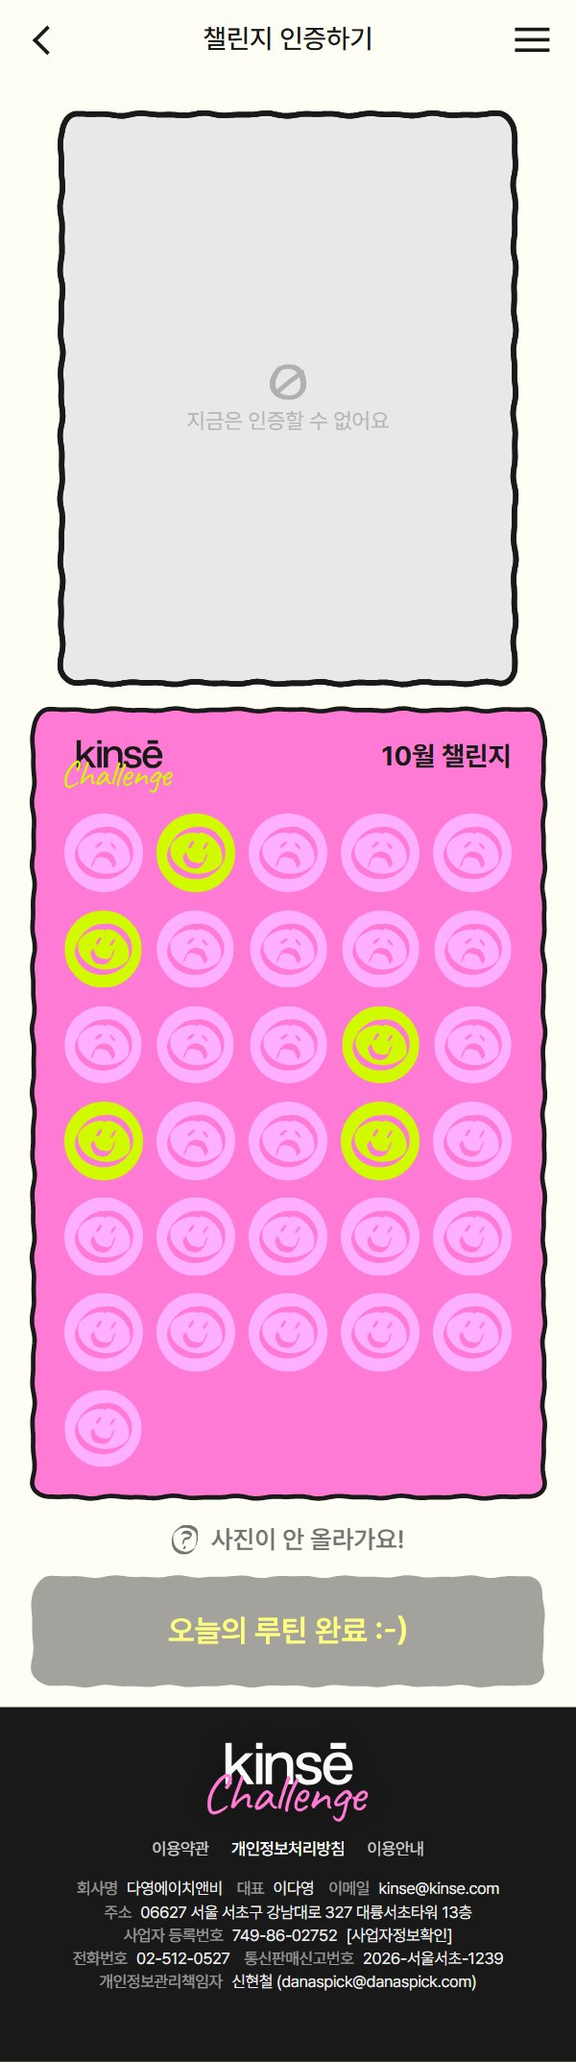
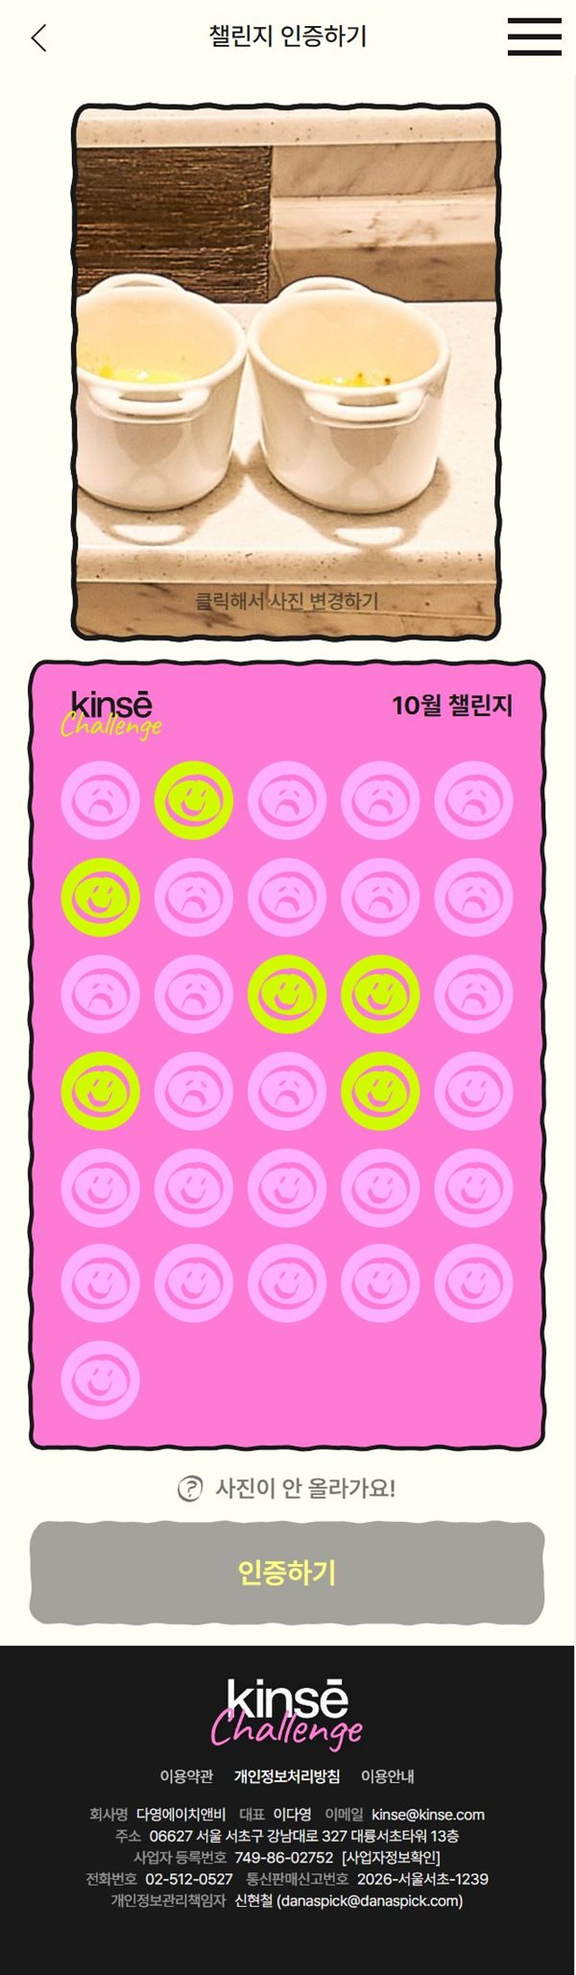
인증 화면 당일 사진 변경 · 결과는 검수기간 끝난 뒤 한 번에 발표 반영
- 인증 화면: 오늘 올린 뒤에도 사진 칸 열림(그날에만 변경), 버튼 항상 "인증하기", "오늘의 루틴 완료" 버튼 주석
- "결과 대기중이에요"는 검수기간에만
- 결과 · 반려 표시는 검수기간이 끝난 다음 날 모든 회원 한 번에, 배지 결과발표는 그때부터
- 내 기록 사진 왼쪽 위 승인 · 반려 도장 설명
- 캡처 3장 다시 촬영 (verify_today, srv/u_verify_2, srv/u_verify_2_stamp)

diff --git a/admin-user-logic.html b/admin-user-logic.html
@@ -62,13 +62,13 @@
     <div class="step"><span class="when">신청기간</span><b>회원 신청</b><p>회원이 신청하고, 관리자는 제품 운송장을 등록해요</p></div>
     <div class="step"><span class="when">진행기간</span><b>하루 1장 인증</b><p>회원이 매일 사진을 올려요. 이상한 사진은 반려해요</p></div>
     <div class="step"><span class="when">진행기간 끝</span><b>횟수 부족 탈락</b><p>기준만큼 못 올린 회원을 한 번에 탈락시켜요</p></div>
-    <div class="step"><span class="when">검수기간</span><b>검수 · 결과 발표</b><p>남은 회원 사진을 확인하고 '최종완료'를 누르면 결과가 나가요</p></div>
+    <div class="step"><span class="when">검수기간</span><b>검수 · 결과 발표</b><p>남은 회원 사진을 확인하고 '최종완료'를 누르면 결과가 정해져요. 발표는 검수기간이 끝난 뒤 한 번에</p></div>
   </div>
 
   <h2>꼭 알아둘 규칙</h2>
   <div class="box">
     <ul>
-      <li><b>인증은 하루 1장</b>이에요. 올린 뒤에는 수정할 수 없고(퍼블에도 수정 화면 없음), 관리자가 반려한 경우에만 그날 다시 올릴 수 있어요. <b>인증 횟수</b>는 반려되지 않은 사진 수예요.</li>
+      <li><b>인증은 하루 1장</b>이에요. 올린 <b>그날(당일)에만</b> 사진을 다시 골라 바꿀 수 있고, 지난 날 사진은 바꿀 수 없어요. <b>인증 횟수</b>는 반려되지 않은 사진 수예요. (반려 표시는 검수기간이 끝난 뒤 회원에게 보여요)</li>
       <li><b>성공 기준</b>은 챌린지마다 따로 정해요. (예: 30일 챌린지에 25번 이상 인증하면 성공)</li>
       <li>관리자는 사진을 <b>하나하나 승인하지 않아요.</b> 문제 있는 사진만 반려하면 되고, 나머지는 '최종완료' 때 자동으로 승인돼요.</li>
       <li>회원의 <b>성공 · 탈락 결과는 관리자가 직접 고를 수 없어요.</b> 아래 두 가지 방법으로만 자동으로 정해져요.
@@ -77,14 +77,14 @@
           <li>검수기간에 심사상태를 <span class="q">최종완료</span>로 바꿀 때</li>
         </ol>
       </li>
-      <li>결과가 정해지는 <b>그 순간 회원 화면에 바로 발표</b>돼요.</li>
+      <li>결과가 정해져도 바로 나가지 않고, <b>검수기간이 끝난 다음 날 모든 회원에게 한 번에 발표</b>돼요. (검수 종료일이 없으면 진행 종료일 다음 날) 그 전까지 회원 화면은 '결과 대기중'이고 반려 표시도 보이지 않아요.</li>
     </ul>
   </div>
 
   <h2>관리자가 하는 일</h2>
   <figure class="dg">
     <div class="scroll">
-    <svg viewBox="0 0 960 324" role="img" aria-label="관리자 운영 흐름: 챌린지 일정 등록, 신청현황 운송장 등록, 인증현황에서 문제 사진만 반려, 진행기간이 끝나면 횟수 부족 일괄 탈락, 검수기간에 최종완료하면 미처리 사진 자동 승인 후 반려 제외 인증 수가 성공 횟수 이상이면 성공 아니면 탈락(반려). 결과가 정해지는 즉시 회원에게 발표.">
+    <svg viewBox="0 0 960 324" role="img" aria-label="관리자 운영 흐름: 챌린지 일정 등록, 신청현황 운송장 등록, 인증현황에서 문제 사진만 반려, 진행기간이 끝나면 횟수 부족 일괄 탈락, 검수기간에 최종완료하면 미처리 사진 자동 승인 후 반려 제외 인증 수가 성공 횟수 이상이면 성공 아니면 탈락(반려). 결과는 검수기간이 끝난 뒤 모든 회원에게 한 번에 발표.">
       <defs><marker id="arrA" viewBox="0 0 10 10" refX="9" refY="5" markerWidth="7" markerHeight="7" orient="auto"><path d="M0,0 L10,5 L0,10 z" fill="currentColor"/></marker></defs>
       <rect class="hd" x="8" y="8" width="176" height="26" rx="6"/><text class="ht" x="96" y="26" text-anchor="middle">준비</text>
       <rect class="hd" x="200" y="8" width="176" height="26" rx="6"/><text class="ht" x="288" y="26" text-anchor="middle">신청기간</text>
@@ -119,7 +119,7 @@
       <line class="ln" x1="672" y1="180" x2="672" y2="278" marker-end="url(#arrA)"/>
       <line class="ln" x1="815" y1="252" x2="815" y2="278" marker-end="url(#arrA)"/>
       <line class="ln" x1="906" y1="252" x2="906" y2="278" marker-end="url(#arrA)"/>
-      <rect class="acb" x="584" y="280" width="368" height="34" rx="10"/><text class="t act" x="768" y="302" text-anchor="middle">결과가 정해지는 즉시 회원 화면에 발표</text>
+      <rect class="acb" x="584" y="280" width="368" height="34" rx="10"/><text class="t act" x="768" y="302" text-anchor="middle">검수기간이 끝나면 모든 회원에게 한 번에 발표</text>
     </svg>
     </div>
     <figcaption>결과가 정해지는 길은 '횟수 부족 일괄 탈락'과 '최종완료' 두 가지뿐이고, 둘 다 진행기간이 끝나야 누를 수 있어요. 최종완료한 회원을 심사중으로 되돌리면 자동 승인이 풀리고 다시 결과 대기가 돼요.</figcaption>
@@ -129,8 +129,8 @@
     <tr><td class="when">준비</td><td><b>챌린지 &gt; 챌린지 일정</b>에서 등록<br>제목, 이미지, 신청기간 · 진행기간 · 검수기간, <b>성공 인증 횟수</b>(1 ~ 진행 일수, 입력칸 옆에 "최대 N회" 표시 · 넘으면 저장 안 됨), 실패한 회원에게 추천할 루틴</td></tr>
     <tr><td class="when">신청기간</td><td><b>챌린지 &gt; 신청현황</b>에서 신청자 확인<br>엑셀로 내려받아 운송장 번호를 채워 다시 올리거나, 목록에서 바로 입력</td></tr>
     <tr><td class="when">진행기간</td><td><b>챌린지 &gt; 인증현황</b>에서 사진 확인<br>문제 있는 사진만 체크해서 <span class="q">반려</span> (잘못 반려했으면 <span class="q">반려 취소</span>)<br>여러 회원의 사진을 한꺼번에 체크해서 처리할 수도 있어요</td></tr>
-    <tr><td class="when">진행기간 끝</td><td><span class="q">횟수 부족 일괄 탈락</span> 버튼 클릭<br>사진을 기준보다 적게 올린 회원(한 번도 안 올린 회원 포함)이 한 번에 탈락돼요 → 회원에게 바로 실패 결과</td></tr>
-    <tr><td class="when">검수기간</td><td>남은 회원 사진을 확인하고 필요하면 반려<br>확인이 끝난 회원을 체크해 심사상태를 <span class="q">최종완료</span>로 변경 → 결과가 자동으로 정해지고 회원에게 발표</td></tr>
+    <tr><td class="when">진행기간 끝</td><td><span class="q">횟수 부족 일괄 탈락</span> 버튼 클릭<br>사진을 기준보다 적게 올린 회원(한 번도 안 올린 회원 포함)이 한 번에 탈락돼요 → 회원에게는 검수기간이 끝난 뒤 실패 결과</td></tr>
+    <tr><td class="when">검수기간</td><td>남은 회원 사진을 확인하고 필요하면 반려<br>확인이 끝난 회원을 체크해 심사상태를 <span class="q">최종완료</span>로 변경 → 결과가 자동으로 정해짐 (회원 발표는 검수기간이 끝난 다음 날 모든 회원 한 번에)</td></tr>
   </table>
   <p class="tip">※ '최종완료'와 '횟수 부족 일괄 탈락'은 진행기간이 끝나야 누를 수 있어요. 최종완료된 회원의 사진은 반려할 수 없어요(심사중으로 되돌린 뒤 처리).</p>
 
@@ -147,15 +147,15 @@
   <h2 class="pink">회원에게 보이는 화면</h2>
   <figure class="dg">
     <div class="scroll">
-    <svg viewBox="0 0 960 320" role="img" aria-label="회원 화면 흐름: 신청 전(상세에 카드 · 버튼 없음), 챌린지 신청하기, 신청 완료 D-n, 사진 인증하기(올리면 오늘의 루틴 완료, 반려되면 다시 인증), 결과 대기중, 관리자 결과 확정 후 결과 화면과 내 기록 보기, 검수기간이 끝나면 종료. 신청하지 않은 회원은 신청 기간 종료 안내 후 종료. 아래에 마이페이지 배지.">
+    <svg viewBox="0 0 960 320" role="img" aria-label="회원 화면 흐름: 신청 전(상세에 카드 · 버튼 없음), 챌린지 신청하기, 신청 완료 D-n, 사진 인증하기(하루 1장, 그날은 사진 변경 가능), 검수기간에는 결과 대기중, 검수기간이 끝나면 모든 회원 결과 화면과 내 기록 보기(결과가 없으면 종료). 신청하지 않은 회원은 신청 기간 종료 안내 후 종료. 아래에 마이페이지 배지.">
       <defs><marker id="arrU" viewBox="0 0 10 10" refX="9" refY="5" markerWidth="7" markerHeight="7" orient="auto"><path d="M0,0 L10,5 L0,10 z" fill="currentColor"/></marker></defs>
       <rect class="hd" x="8" y="8" width="124" height="26" rx="6"/><text class="ht" x="70" y="26" text-anchor="middle">신청 전</text>
       <rect class="hd" x="144" y="8" width="124" height="26" rx="6"/><text class="ht" x="206" y="26" text-anchor="middle">신청기간</text>
       <rect class="hd" x="280" y="8" width="124" height="26" rx="6"/><text class="ht" x="342" y="26" text-anchor="middle">신청 후 · 시작 전</text>
       <rect class="hd" x="416" y="8" width="124" height="26" rx="6"/><text class="ht" x="478" y="26" text-anchor="middle">진행기간</text>
-      <rect class="hd" x="552" y="8" width="124" height="26" rx="6"/><text class="ht" x="614" y="26" text-anchor="middle">진행 끝 · 결과 전</text>
-      <rect class="hd" x="688" y="8" width="124" height="26" rx="6"/><text class="ht" x="750" y="26" text-anchor="middle">결과 발표</text>
-      <rect class="hd" x="824" y="8" width="124" height="26" rx="6"/><text class="ht" x="886" y="26" text-anchor="middle">검수기간 끝</text>
+      <rect class="hd" x="552" y="8" width="124" height="26" rx="6"/><text class="ht" x="614" y="26" text-anchor="middle">검수기간</text>
+      <rect class="hd" x="688" y="8" width="124" height="26" rx="6"/><text class="ht" x="750" y="26" text-anchor="middle">검수기간 끝 · 발표</text>
+      <rect class="hd" x="824" y="8" width="124" height="26" rx="6"/><text class="ht" x="886" y="26" text-anchor="middle">결과 없음</text>
 
       <rect class="bx" x="8" y="60" width="124" height="56" rx="10"/><text class="t" x="70" y="84" text-anchor="middle">신청 전</text><text class="s" x="70" y="103" text-anchor="middle">카드 · 버튼 없음</text>
       <rect class="bx" x="144" y="60" width="124" height="56" rx="10"/><text class="t" x="206" y="84" text-anchor="middle">챌린지 신청하기</text><text class="s" x="206" y="103" text-anchor="middle">비로그인: 로그인 후</text>
@@ -171,11 +171,11 @@
       <line class="ln" x1="540" y1="88" x2="551" y2="88" marker-end="url(#arrU)"/>
       <line class="ln" x1="676" y1="88" x2="687" y2="88" marker-end="url(#arrU)"/>
       <line class="ln" x1="812" y1="88" x2="823" y2="88" marker-end="url(#arrU)"/>
-      <text class="s act" x="682" y="50" text-anchor="middle">관리자 결과 확정</text>
+      <text class="s act" x="682" y="50" text-anchor="middle">모든 회원 한 번에</text>
 
       <line class="ln" x1="462" y1="116" x2="462" y2="152" marker-end="url(#arrU)"/><text class="s" x="456" y="138" text-anchor="end">올림</text>
-      <rect class="okb" x="416" y="154" width="124" height="44" rx="10"/><text class="t okt" x="478" y="172" text-anchor="middle" style="font-size:12px">오늘의 루틴 완료</text><text class="s" x="478" y="190" text-anchor="middle">다음 날 다시 인증</text>
-      <line class="ln dash" x1="494" y1="152" x2="494" y2="118" marker-end="url(#arrU)"/><text class="s" x="500" y="138">반려되면</text>
+      <rect class="okb" x="416" y="154" width="124" height="44" rx="10"/><text class="t okt" x="478" y="172" text-anchor="middle" style="font-size:12px">그날은 사진 변경</text><text class="s" x="478" y="190" text-anchor="middle">다음 날 다시 인증</text>
+      <line class="ln dash" x1="494" y1="152" x2="494" y2="118" marker-end="url(#arrU)"/><text class="s" x="500" y="138">다시 고르면</text>
 
       <line class="ln" x1="750" y1="116" x2="750" y2="152" marker-end="url(#arrU)"/>
       <rect class="bx" x="688" y="154" width="124" height="44" rx="10"/><text class="t" x="750" y="172" text-anchor="middle">내 기록 보기</text><text class="s" x="750" y="190" text-anchor="middle">도장판</text>
@@ -192,19 +192,19 @@
       <rect x="844" y="284" width="84" height="24" rx="12" fill="#e9edf2"/><text class="t" x="886" y="300" text-anchor="middle" fill="#55606e" style="font-size:12px">종료</text>
     </svg>
     </div>
-    <figcaption>진행기간에는 하루 1장 — 올리면 바로 '오늘의 루틴 완료', 반려되면 그날 다시 올릴 수 있어요. 관리자 쪽에서 결과가 정해지는 순간 인증 화면 대신 결과 화면(성공 · 실패)이 열려요.</figcaption>
+    <figcaption>진행기간에는 하루 1장 — 올린 날에는 사진을 다시 골라 바꿀 수 있고, 버튼은 항상 '인증하기'예요('오늘의 루틴 완료' 버튼은 없앰). 검수기간에는 관리자가 결과를 정해도 '결과 대기중이에요'이고, 검수기간이 끝난 다음 날 모든 회원에게 결과 화면(성공 · 실패)이 한 번에 열려요.</figcaption>
   </figure>
   <table>
     <tr><th>언제</th><th>회원이 보는 것</th></tr>
     <tr><td class="when">신청기간 전</td><td>상세에 카드 · 버튼 없음 (목록 카드는 눌리지 않음)</td></tr>
     <tr><td class="when">신청기간</td><td>"챌린지 신청하기" 버튼 (로그인 안 했으면 "로그인 후 신청하기")<br>이름 · 전화번호 · 주소 입력, 동의 3개 체크 후 신청</td></tr>
     <tr><td class="when">신청 후 ~ 시작 전</td><td>"신청 완료" · "곧 시작돼요 D-n"</td></tr>
-    <tr><td class="when">진행기간</td><td>"사진 등록하고 인증하기" → 하루 1장 업로드<br>올리면 바로 <b>"오늘의 루틴 완료 :-)"</b>, 반려되면 그날 다시 올릴 수 있어요<br>도장판에 인증한 날 · 놓친 날 · 반려된 날이 표시돼요</td></tr>
-    <tr><td class="when">진행기간 끝 ~ 결과 전</td><td>"결과 대기중이에요" (사진은 더 올릴 수 없어요)</td></tr>
-    <tr><td class="when">결과 발표 후</td><td>성공 → "챌린지 성공했어요!" + 리워드 안내<br>탈락 → "완주하지 못했어요" + 추천 루틴<br>두 화면 모두 "내 기록 보기"로 도장판 확인</td></tr>
-    <tr><td class="when">검수기간 끝</td><td>"종료된 챌린지 · 다음에 다시 돌아올게요"</td></tr>
+    <tr><td class="when">진행기간</td><td>"사진 등록하고 인증하기" → 하루 1장 업로드<br>오늘 올린 뒤 다시 들어오면 오늘 사진이 보이고, <b>그날에만</b> 다시 골라 바꿀 수 있어요 (버튼은 항상 "인증하기")<br>도장판에 인증한 날 · 놓친 날 · 오늘이 표시돼요</td></tr>
+    <tr><td class="when">검수기간</td><td>"결과 대기중이에요" (사진은 더 올릴 수 없어요)<br>관리자가 결과를 정해도 검수기간 동안은 이 화면 그대로</td></tr>
+    <tr><td class="when">검수기간 끝 (결과 발표)</td><td>모든 회원에게 한 번에 — 성공 → "챌린지 성공했어요!" + 리워드 안내<br>탈락 → "완주하지 못했어요" + 추천 루틴<br>두 화면 모두 "내 기록 보기"로 도장판 확인 (사진 왼쪽 위 도장 : 승인 웃는 얼굴 / 반려 · 안 올린 날 우는 얼굴)</td></tr>
+    <tr><td class="when">검수기간 끝 · 결과 없음</td><td>"종료된 챌린지 · 다음에 다시 돌아올게요" (신청 안 한 회원 · 결과가 정해지지 않은 회원)</td></tr>
   </table>
-  <p class="tip">※ 마이페이지 '나의 챌린지'에는 진행중 / 진행예정 / 결과대기중 / 결과발표 / 종료 중 하나가 표시돼요.</p>
+  <p class="tip">※ 마이페이지 '나의 챌린지'에는 진행중 / 진행예정 / 결과대기중(검수기간) / 결과발표(검수기간이 끝나고 결과가 있음) / 종료(결과 없음) 중 하나가 표시돼요.</p>
 
   <p class="tip">아래는 지금 사이트의 실제 회원 화면이에요 (2026-10-19, 테스트 데이터로 캡처 후 데이터 삭제). 사진을 누르면 크게 볼 수 있어요.</p>
 
@@ -220,28 +220,27 @@
   <div class="shots">
     <figure><a href="img/v_applied.jpg" target="_blank"><img src="img/v_applied.jpg" alt="신청 후 시작 전 상세" loading="lazy"></a><figcaption><b>신청 후 · 시작 전</b>"곧 시작돼요 D-8" · 버튼 "신청 완료"</figcaption></figure>
     <figure><a href="img/v_ing.jpg" target="_blank"><img src="img/v_ing.jpg" alt="진행중 오늘 인증 전 상세" loading="lazy"></a><figcaption><b>진행중 · 오늘 인증 전</b>"오늘의 챌린지 시작!" 진행바 5/14 · 버튼 "사진 등록하고 인증하기"</figcaption></figure>
-    <figure><a href="img/verify_ing.jpg" target="_blank"><img src="img/verify_ing.jpg" alt="사진 인증 화면" loading="lazy"></a><figcaption><b>사진 인증</b>사진 칸 + 도장판 (인증한 날 · 놓친 날 · 반려된 날 · 오늘)</figcaption></figure>
+    <figure><a href="img/verify_ing.jpg" target="_blank"><img src="img/verify_ing.jpg" alt="사진 인증 화면" loading="lazy"></a><figcaption><b>사진 인증</b>사진 칸 + 도장판 (인증한 날 · 놓친 날 · 오늘, 반려는 검수기간이 끝난 뒤에만)</figcaption></figure>
     <figure><a href="img/verify_done.jpg" target="_blank"><img src="img/verify_done.jpg" alt="인증 완료" loading="lazy"></a><figcaption><b>인증 완료</b>"사진 인증 완료했어요!" + 오늘 사진 + 도장판</figcaption></figure>
-    <figure><a href="img/verify_today.jpg" target="_blank"><img src="img/verify_today.jpg" alt="오늘 인증 후 인증 화면" loading="lazy"></a><figcaption><b>오늘 올린 뒤 인증 화면</b>사진 칸 "지금은 인증할 수 없어요" · 버튼 "오늘의 루틴 완료 :-)"</figcaption></figure>
+    <figure><a href="img/verify_today.jpg" target="_blank"><img src="img/verify_today.jpg" alt="오늘 인증 후 인증 화면" loading="lazy"></a><figcaption><b>오늘 올린 뒤 인증 화면</b>오늘 사진 + "클릭해서 사진 변경하기" · 버튼 "인증하기" (그날에만 변경, 10/19 저녁 변경)</figcaption></figure>
     <figure><a href="img/v_ing_done.jpg" target="_blank"><img src="img/v_ing_done.jpg" alt="진행중 오늘 인증 완료 상세" loading="lazy"></a><figcaption><b>진행중 · 오늘 인증 완료</b>카드 "오늘의 루틴 완료 :-)" 6/14</figcaption></figure>
     <figure><a href="img/v_missed.jpg" target="_blank"><img src="img/v_missed.jpg" alt="진행중 미신청 상세" loading="lazy"></a><figcaption><b>진행중 · 신청 안 한 회원</b>"신청 기간이 종료됐어요." · 버튼 "지금은 신청할 수 없어요"</figcaption></figure>
   </div>
 
-  <h3 class="shot-h">진행기간 끝 ~ 결과 · 종료</h3>
+  <h3 class="shot-h">검수기간 ~ 결과 · 종료</h3>
   <div class="shots">
-    <figure><a href="img/v_review.jpg" target="_blank"><img src="img/v_review.jpg" alt="결과 대기 상세" loading="lazy"></a><figcaption><b>결과 전 · 챌린지 상세</b>"참여 완료한 챌린지 · 인증 확인중이에요."</figcaption></figure>
-    <figure><a href="img/verify_review.jpg" target="_blank"><img src="img/verify_review.jpg" alt="결과 대기 인증 화면" loading="lazy"></a><figcaption><b>결과 전 · 인증 화면</b>사진 칸 닫힘 · 버튼 "결과 대기중이에요"</figcaption></figure>
+    <figure><a href="img/v_review.jpg" target="_blank"><img src="img/v_review.jpg" alt="결과 대기 상세" loading="lazy"></a><figcaption><b>검수기간 · 챌린지 상세</b>"참여 완료한 챌린지 · 인증 확인중이에요."</figcaption></figure>
+    <figure><a href="img/verify_review.jpg" target="_blank"><img src="img/verify_review.jpg" alt="결과 대기 인증 화면" loading="lazy"></a><figcaption><b>검수기간 · 인증 화면</b>사진 칸 닫힘 · 버튼 "결과 대기중이에요" (검수기간에만, 결과가 정해져도 그대로)</figcaption></figure>
     <figure><a href="img/result_ok.jpg" target="_blank"><img src="img/result_ok.jpg" alt="성공 결과" loading="lazy"></a><figcaption><b>결과 · 성공</b>"챌린지 성공했어요!" · "내 기록 보기"</figcaption></figure>
     <figure><a href="img/result_fail.jpg" target="_blank"><img src="img/result_fail.jpg" alt="실패 결과" loading="lazy"></a><figcaption><b>결과 · 실패</b>"완주하지 못했어요" + 추천 루틴 · "내 기록 보기"</figcaption></figure>
-    <figure><a href="img/record.jpg" target="_blank"><img src="img/record.jpg" alt="내 기록" loading="lazy"></a><figcaption><b>내 기록</b>도장을 누르면 그날 사진 · 날짜</figcaption></figure>
+    <figure><a href="img/record.jpg" target="_blank"><img src="img/record.jpg" alt="내 기록" loading="lazy"></a><figcaption><b>내 기록</b>도장을 누르면 그날 사진 · 날짜, 사진 왼쪽 위 작은 도장 = 승인(웃는 얼굴) · 반려(우는 얼굴)</figcaption></figure>
     <figure><a href="img/v_end.jpg" target="_blank"><img src="img/v_end.jpg" alt="종료 챌린지 상세" loading="lazy"></a><figcaption><b>검수기간 끝 · 종료</b>"종료된 챌린지" · 버튼 "다음에 다시 돌아올게요 :-)"</figcaption></figure>
-    <figure><a href="img/my_challenge.jpg" target="_blank"><img src="img/my_challenge.jpg" alt="나의 챌린지 배지" loading="lazy"></a><figcaption><b>나의 챌린지</b>배지 진행예정 · 진행중 · 결과발표(성공 · 실패) · 결과대기중 (검수기간이 끝나면 종료)</figcaption></figure>
+    <figure><a href="img/my_challenge.jpg" target="_blank"><img src="img/my_challenge.jpg" alt="나의 챌린지 배지" loading="lazy"></a><figcaption><b>나의 챌린지</b>배지 진행예정 · 진행중 · 결과대기중(검수기간) · 결과발표(검수기간이 끝나고 결과 있음) · 종료(결과 없음). 캡처는 10/19 오전 규칙 화면</figcaption></figure>
   </div>
 
   <h2>정해야 할 것</h2>
   <div class="box">
     <ol>
-      <li>결과가 이미 발표된 회원도 검수기간 동안 메인 카드와 상세 버튼에 "인증 확인중이에요"가 보여요. (퍼블에 '결과 발표' 문구가 없음)</li>
       <li>결과 화면이 '완주'라는 표현을 쓰는데, 성공 기준이 'N번 이상'이라 뜻이 안 맞아요. 회원 화면에 성공 기준 안내도 없어요.</li>
       <li>신청할 때 전화번호 인증은 아직 연결되지 않았어요. (인증 서비스 정보 대기)</li>
     </ol>

diff --git a/user-publ-compare.html b/user-publ-compare.html
@@ -48,7 +48,7 @@
     <div class="box">
       <h2><span class="tag warn">확인 필요</span> 결정할 것 5가지</h2>
       <ol>
-        <li>결과 발표 뒤에도 카드 · 상세 버튼이 "인증 확인중이에요" (퍼블에 '결과 발표' 상태 없음)</li>
+        <li>(10/19 저녁 해결) 결과는 검수기간이 끝난 뒤 발표라 검수기간 카드 · 상세 버튼 "인증 확인중이에요"와 어긋나지 않음</li>
         <li>결과 화면 '완주' 문구 그대로 / 성공 기준(N회 이상) 안내 없음</li>
         <li>신청서 전화번호 인증 미연동</li>
         <li>메인 카드 : 엑셀은 신청한 챌린지 0개면 바로 "챌린지 참여하기" ↔ 지금은 신청기간 챌린지를 먼저 보여 줌</li>
@@ -58,10 +58,10 @@
     <div class="box">
       <h2>관리자 변경을 사용자에 적용</h2>
       <ul>
-        <li>결과 = 관리자 '챌린지 결과' 그대로, 정해지면 바로 발표</li>
+        <li>결과 = 관리자 '챌린지 결과' 그대로, 검수기간이 끝난 다음 날 모든 회원에게 한 번에 발표 (10/19 저녁 변경)</li>
         <li>오늘 인증 = 승인이 아니라 <b>사진 업로드</b> 기준</li>
-        <li>→ 카드 · 인증 화면 버튼 모두 올리면 바로 "오늘의 루틴 완료 :-)"</li>
-        <li>→ 인증 화면 "결과 대기중이에요"는 진행기간이 끝나고 발표 전에만</li>
+        <li>→ 카드는 올리면 바로 "오늘의 루틴 완료 :-)", 인증 화면 버튼은 항상 "인증하기"(그날 사진 변경 가능, 10/19 저녁)</li>
+        <li>→ 인증 화면 "결과 대기중이에요"는 검수기간에만</li>
       </ul>
     </div>
   </div>
@@ -84,10 +84,10 @@
       <tr><td class="k"><span class="tag same">같음</span></td><td class="item">신청기간 전</td><td class="p">카드 마크업에는 없음<br>엑셀 : 시작 전 + 미신청 → upcoming, 상태문구 "진행 예정"</td><td>카드 없음 · 하단 버튼 없음</td></tr>
       <tr><td class="k"><span class="tag same">같음</span></td><td class="item">시작 전 + 신청함</td><td class="p">"곧 시작돼요 :-) D-n"</td><td>같음</td></tr>
       <tr><td class="k"><span class="tag chg">변경</span></td><td class="item">진행중 + 오늘 인증 전</td><td class="p">"오늘의 수분 충전 시작!"</td><td>"오늘의 챌린지 시작!" ('수분' 빼고 공통 문구)</td></tr>
-      <tr><td class="k"><span class="tag chg">변경</span></td><td class="item">진행중 + 오늘 인증 완료</td><td class="p">"오늘의 수분 루틴 완료 :-)"</td><td>"오늘의 루틴 완료 :-)" — 사진 올리면 바로 (반려되면 다시 '시작!')</td></tr>
+      <tr><td class="k"><span class="tag chg">변경</span></td><td class="item">진행중 + 오늘 인증 완료</td><td class="p">"오늘의 수분 루틴 완료 :-)"</td><td>"오늘의 루틴 완료 :-)" — 사진 올리면 바로</td></tr>
       <tr><td class="k"><span class="tag chg">변경</span></td><td class="item">진행중 + 오늘 인증 확인중</td><td class="p">"인증 확인중이에요."</td><td>안 씀 (승인 작업이 없어짐)</td></tr>
       <tr><td class="k"><span class="tag same">같음</span></td><td class="item">신청기간 지나서 미신청</td><td class="p">"신청 기간이 종료됐어요."</td><td>같음</td></tr>
-      <tr><td class="k"><span class="tag warn">확인 필요</span></td><td class="item">마지막 날 지나고 결과 확인중</td><td class="p">"인증 확인중이에요."</td><td>같음 (검수기간 + 신청함)<span class="note">결과가 발표된 회원도 검수기간 동안 이 문구</span></td></tr>
+      <tr><td class="k"><span class="tag warn">확인 필요</span></td><td class="item">마지막 날 지나고 결과 확인중</td><td class="p">"인증 확인중이에요."</td><td>같음 (검수기간 + 신청함)<span class="note">결과 발표는 검수기간이 끝난 뒤라 문제 없음 (10/19 저녁)</span></td></tr>
       <tr><td class="k"><span class="tag same">같음</span></td><td class="item">완전 종료</td><td class="p">회색 "다음에 다시 돌아올게요 :-)"</td><td>같음 (메인에는 안 나옴)</td></tr>
       <tr><td class="k"><span class="tag add">추가</span></td><td class="item">메인 카드 고르는 순서</td><td class="p">없음</td><td>① 신청한 챌린지 중 끝나지 않은 것 → ② 없으면 "챌린지 참여하기"</td></tr>
     </table>
@@ -116,7 +116,7 @@
       <tr><td class="k"><span class="tag same">같음</span></td><td class="item">버튼 · 신청 가능</td><td class="p" colspan="2">"챌린지 신청하기"</td></tr>
       <tr><td class="k"><span class="tag same">같음</span></td><td class="item">버튼 · 신청함 + 진행 전</td><td class="p" colspan="2">"신청 완료"</td></tr>
       <tr><td class="k"><span class="tag same">같음</span></td><td class="item">버튼 · 진행중 + 신청함</td><td class="p" colspan="2">"사진 등록하고 인증하기" (+ 오늘 인증 전이면 "잘 하고 있어요 !" 안내)</td></tr>
-      <tr><td class="k"><span class="tag warn">확인 필요</span></td><td class="item">버튼 · 검수기간 + 신청함</td><td class="p">"인증 확인중이에요"</td><td>같음<span class="note">결과 발표 뒤에도 이 문구</span></td></tr>
+      <tr><td class="k"><span class="tag warn">확인 필요</span></td><td class="item">버튼 · 검수기간 + 신청함</td><td class="p">"인증 확인중이에요"</td><td>같음<span class="note">결과 발표는 검수기간이 끝난 뒤 (10/19 저녁)</span></td></tr>
       <tr><td class="k"><span class="tag same">같음</span></td><td class="item">버튼 · 그 외 미신청</td><td class="p" colspan="2">"지금은 신청할 수 없어요"</td></tr>
       <tr><td class="k"><span class="tag same">같음</span></td><td class="item">버튼 · 종료</td><td class="p" colspan="2">"다음에 다시 돌아올게요 :-)"</td></tr>
     </table>
@@ -138,12 +138,12 @@
     <table>
       <tr><th>구분</th><th>항목</th><th>퍼블</th><th>지금</th></tr>
       <tr><td class="k"><span class="tag same">같음</span></td><td class="item">사진 칸 "인증 사진 업로드"</td><td class="p" colspan="2">진행기간 + 오늘 사진 없음(또는 반려)</td></tr>
-      <tr><td class="k"><span class="tag add">추가</span></td><td class="item">사진 칸 "지금은 인증할 수 없어요"</td><td class="p">인증 확인중일 때</td><td>오늘 이미 올렸을 때 + 진행기간이 끝났을 때 둘 다</td></tr>
+      <tr><td class="k"><span class="tag add">추가</span></td><td class="item">사진 칸 "지금은 인증할 수 없어요"</td><td class="p">인증 확인중일 때</td><td>진행기간이 끝났을 때 (오늘 올린 뒤에는 사진 칸이 열려 있고 그날 사진 변경 가능, 10/19 저녁)</td></tr>
       <tr><td class="k"><span class="tag same">같음</span></td><td class="item">버튼 "인증하기"</td><td class="p" colspan="2">사진을 골라야 눌림</td></tr>
-      <tr><td class="k"><span class="tag same">같음</span></td><td class="item">버튼 "결과 대기중이에요"</td><td class="p">인증 확인중일 때</td><td>진행기간이 끝나고 결과 발표 전</td></tr>
-      <tr><td class="k"><span class="tag add">추가</span></td><td class="item">버튼 "오늘의 루틴 완료 :-)"</td><td class="p">없음</td><td>진행중 + 오늘 사진 올림 (카드와 같은 문구, 반려되면 다시 "인증하기")</td></tr>
-      <tr><td class="k"><span class="tag add">추가</span></td><td class="item">도장판</td><td class="p">인증한 날 on / 놓친 날 fail / 오늘 today</td><td>같음 + 반려된 날은 올렸던 사진 표시</td></tr>
-      <tr><td class="k"><span class="tag add">추가</span></td><td class="item">진입 조건</td><td class="p">없음</td><td>신청한 회원만 / 하루 1장 (반려되면 다시) / 결과 발표 뒤에는 결과 화면으로</td></tr>
+      <tr><td class="k"><span class="tag same">같음</span></td><td class="item">버튼 "결과 대기중이에요"</td><td class="p">인증 확인중일 때</td><td>검수기간에만</td></tr>
+      <tr><td class="k"><span class="tag same">같음</span></td><td class="item">버튼 "오늘의 루틴 완료 :-)"</td><td class="p">없음</td><td>없음 — 10/19 저녁 주석 처리, 진행중에는 항상 "인증하기"</td></tr>
+      <tr><td class="k"><span class="tag add">추가</span></td><td class="item">도장판</td><td class="p">인증한 날 on / 놓친 날 fail / 오늘 today</td><td>같음 + 반려된 날은 올렸던 사진 표시 (검수기간이 끝난 뒤에만)</td></tr>
+      <tr><td class="k"><span class="tag add">추가</span></td><td class="item">진입 조건</td><td class="p">없음</td><td>신청한 회원만 / 하루 1장 (그날에만 사진 변경) / 결과 발표(검수기간 끝) 뒤에는 결과 화면으로</td></tr>
     </table>
   </section>
 
@@ -153,7 +153,7 @@
       <tr><th>구분</th><th>항목</th><th>퍼블</th><th>지금</th></tr>
       <tr><td class="k"><span class="tag same">같음</span></td><td class="item">인증 완료</td><td class="p" colspan="2">"사진 인증 완료했어요!" + 오늘 사진 + 도장판</td></tr>
       <tr><td class="k"><span class="tag same">같음</span></td><td class="item">내 기록</td><td class="p" colspan="2">누른 날 사진 · 날짜, 사진 없는 날 "업로드하지 않았어요"</td></tr>
-      <tr><td class="k"><span class="tag add">추가</span></td><td class="item">반려 표시</td><td class="p">없음</td><td>반려된 날 올렸던 사진 + 실패 도장</td></tr>
+      <tr><td class="k"><span class="tag add">추가</span></td><td class="item">반려 표시</td><td class="p">없음</td><td>반려된 날 올렸던 사진 + 사진 왼쪽 위 실패 도장 (퍼블 .mark, 승인은 웃는 도장)</td></tr>
       <tr><td class="k"><span class="tag add">추가</span></td><td class="item">내 기록 진입</td><td class="p">없음</td><td>결과 발표 뒤에만 (결과 화면 "내 기록 보기")</td></tr>
     </table>
   </section>
@@ -165,7 +165,7 @@
       <tr><td class="k"><span class="tag warn">확인 필요</span></td><td class="item">성공</td><td class="p">"챌린지 성공했어요!" + "완주 리워드"</td><td>관리자 챌린지 결과 = 성공<span class="note">'완주' 문구 그대로 (성공 기준이 N회 이상)</span></td></tr>
       <tr><td class="k"><span class="tag warn">확인 필요</span></td><td class="item">실패</td><td class="p">"완주하지 못했어요"</td><td>관리자 챌린지 결과 = 탈락(횟수 부족 · 반려)<span class="note">'완주' 문구 그대로</span></td></tr>
       <tr><td class="k"><span class="tag chg">변경</span></td><td class="item">실패 · 추천 루틴</td><td class="p">카드 여러 개 (최소 1개)</td><td>1개 (일정에서 고른 루틴, 없으면 최신)</td></tr>
-      <tr><td class="k"><span class="tag add">추가</span></td><td class="item">결과 발표 시점</td><td class="p">없음</td><td>관리자 챌린지 결과가 정해지는 순간 (진행기간 뒤 횟수 부족 일괄 탈락 / 검수기간 최종완료 자동 판정)</td></tr>
+      <tr><td class="k"><span class="tag add">추가</span></td><td class="item">결과 발표 시점</td><td class="p">없음</td><td>검수기간이 끝난 다음 날 모든 회원에게 한 번에 (결과는 진행기간 뒤 횟수 부족 일괄 탈락 / 검수기간 최종완료 자동 판정, 10/19 저녁 변경)</td></tr>
       <tr><td class="k"><span class="tag warn">확인 필요</span></td><td class="item">성공 기준 안내</td><td class="p">없음</td><td>회원 화면에 "N회 이상 인증하면 성공" 안내 없음</td></tr>
     </table>
   </section>
@@ -176,7 +176,7 @@
       <tr><th>구분</th><th>항목</th><th>퍼블</th><th>지금</th></tr>
       <tr><td class="k"><span class="tag same">같음</span></td><td class="item">프로필</td><td class="p" colspan="2">로그인 / 비로그인 (누르면 로그인 화면)</td></tr>
       <tr><td class="k"><span class="tag same">같음</span></td><td class="item">없을 때</td><td class="p" colspan="2">"참여중인 챌린지가 없어요"</td></tr>
-      <tr><td class="k"><span class="tag same">같음</span></td><td class="item">배지 (하나만)</td><td class="p" colspan="2">진행중(분홍) 진행기간 · 진행예정(노랑) 신청함+진행 전 · 결과대기중(연두) 검수기간+발표 전 · 결과발표(하늘) 검수기간+발표됨 · 종료(회색)</td></tr>
+      <tr><td class="k"><span class="tag same">같음</span></td><td class="item">배지 (하나만)</td><td class="p" colspan="2">진행중(분홍) 진행기간 · 진행예정(노랑) 신청함+진행 전 · 결과대기중(연두) 검수기간 · 결과발표(하늘) 검수기간 끝+결과 있음 · 종료(회색) 결과 없음</td></tr>
       <tr><td class="k"><span class="tag same">같음</span></td><td class="item">체크리스트 히스토리</td><td class="p" colspan="2">로그인만</td></tr>
       <tr><td class="k"><span class="tag add">추가</span></td><td class="item">카드 누르면</td><td class="p">없음</td><td>진행예정 → 상세 / 성공 → 성공 화면 / 실패 → 실패 화면 / 그 외 → 인증 화면</td></tr>
     </table>

diff --git a/server-screen-flow.html b/server-screen-flow.html
@@ -179,10 +179,11 @@
       <tr><td class="k">상세 버튼</td><td><q>사진 등록하고 인증하기</q> (진행 기간 내내) · 오늘 인증 전에만 말풍선 <q>잘 하고 있어요 ! 오늘의 인증을 해보세요 :-)</q></td></tr>
       <tr><td class="k">인증하기</td><td><q>인증 사진 업로드</q> → 고르면 미리보기 + <q>클릭해서 사진 변경하기</q> → <q>인증하기</q>(사진 골라야 켜짐) · 도장 누르면 그날 사진 · 날짜 · 하단 <q>사진이 안 올라가요!</q>(링크 비어 있음)</td></tr>
       <tr><td class="k">인증 완료</td><td><q>사진 인증 완료했어요! / 이대로만 계속, 꾸준히 해봐요:-)</q> + 오늘 사진 + 도장판 + <q>갤러리에 저장</q></td></tr>
-      <tr><td class="k">오늘 이미 올림</td><td>인증하기 화면 <q>지금은 인증할 수 없어요</q> + 버튼 <q>오늘의 루틴 완료 :-)</q></td></tr>
+      <tr><td class="k">오늘 이미 올림</td><td>인증하기 화면에 오늘 사진 + <q>클릭해서 사진 변경하기</q> · 버튼 <q>인증하기</q> (다시 고르면 오늘 사진을 바꿈, 그날에만) · <q>오늘의 루틴 완료 :-)</q> 버튼은 주석 처리 (10/19 저녁)</td></tr>
     </table></div>
     <div class="memo"><ul>
-      <li>하루 1장 · 올리면 승인 여부와 상관없이 그날 완료. 관리자가 반려하면 그날 다시 올릴 수 있고, 도장을 누르면 올렸던 사진 · 날짜만 보임</li>
+      <li>하루 1장 · 올리면 승인 여부와 상관없이 그날 완료. 올린 날에는 사진을 바꿀 수 있고(인증 기록은 1건 그대로, 이전 사진 파일 삭제), 지난 날 사진은 못 바꿈</li>
+      <li>반려 표시는 검수기간이 끝난 뒤에만 보임 — 그 전에는 반려된 사진도 올린 사진 그대로 보임</li>
       <li>도장 한 칸 = 하루: 인증한 날 / 놓친 날 / 오늘</li>
     </ul></div>
     <div class="diff"><b>피그마와 다른 점</b><ul>
@@ -194,23 +195,23 @@
     <figure data-src="img/srv/u_view_2.jpg"><figcaption>상세 · 진행중<small>오늘 인증 완료 · 10/19</small></figcaption></figure>
     <figure data-src="img/srv/u_mypage.jpg"><figcaption>마이페이지<small>진행중 카드 · 10/19</small></figcaption></figure>
     <figure data-src="img/srv/u_my_challenge.jpg"><figcaption>나의 챌린지<small>진행중 · 종료 · 10/19</small></figcaption></figure>
-    <figure data-src="img/srv/u_verify_2.jpg"><figcaption>인증하기<small>오늘 이미 올림 · 10/19</small></figcaption></figure>
+    <figure data-src="img/srv/u_verify_2.jpg"><figcaption>인증하기<small>오늘 이미 올림 · 사진 변경 가능 · 10/19 저녁</small></figcaption></figure>
     <figure data-src="img/srv/u_verify_2_stamp.jpg"><figcaption>인증하기 · 도장 누름<small>그날 사진 · 날짜 · 10/19</small></figcaption></figure>
     <figure data-src="img/v_ing.jpg"><figcaption>상세 · 진행중<small>오늘 인증 전 · 10/19</small></figcaption></figure>
     <figure data-src="img/v_ing_done.jpg"><figcaption>상세 · 진행중<small>오늘의 루틴 완료 · 10/19</small></figcaption></figure>
     <figure data-src="img/verify_ing.jpg"><figcaption>인증하기<small>사진 올리기 전 · 10/19</small></figcaption></figure>
     <figure data-src="img/verify_done.jpg"><figcaption>인증 완료<small>10/19</small></figcaption></figure>
-    <figure data-src="img/verify_today.jpg"><figcaption>인증하기<small>오늘 이미 올림 · 10/19</small></figcaption></figure>
+    <figure data-src="img/verify_today.jpg"><figcaption>인증하기<small>오늘 이미 올림 · 사진 변경 가능 · 10/19 저녁</small></figcaption></figure>
   </div>
 
   <h2 id="s5"><span class="no">5</span>챌린지 진행 – 결과 확인중 (검수중)</h2>
   <div class="box">
-    <p class="tip" style="margin:0 0 8px">진행 마지막 날이 지나고 검수 종료일까지, 관리자가 결과를 정하기 전</p>
+    <p class="tip" style="margin:0 0 8px">진행 마지막 날이 지나고 검수 종료일까지 (관리자가 결과를 정해도 이 기간에는 발표하지 않음)</p>
     <div class="tbl"><table>
       <tr><th>화면</th><th>지금 서버</th></tr>
       <tr><td class="k">홈 · 상세 카드</td><td><q>참여 완료한 챌린지</q> + 체크 아이콘 · <q>인증 확인중이에요.</q> · 진행바 없음</td></tr>
       <tr><td class="k">상세 버튼</td><td><q>인증 확인중이에요</q> (회색)</td></tr>
-      <tr><td class="k">인증하기</td><td><q>지금은 인증할 수 없어요</q> + 버튼 <q>결과 대기중이에요</q> · 도장은 눌러서 볼 수 있음</td></tr>
+      <tr><td class="k">인증하기</td><td><q>지금은 인증할 수 없어요</q> + 버튼 <q>결과 대기중이에요</q>(검수기간에만, 검수 끝난 뒤 결과가 없으면 버튼 없음) · 도장은 눌러서 볼 수 있음</td></tr>
       <tr><td class="k">마이페이지</td><td><span class="pill b-wait">결과대기중</span> 카드 → 인증하기(도장판)</td></tr>
     </table></div>
     <div class="diff"><b>피그마와 다른 점</b><ul><li>인증하기 버튼 <q>인증 확인중이에요</q> ↔ <q>결과 대기중이에요</q> (퍼블대로)</li></ul></div>
@@ -224,19 +225,18 @@
   <div class="box">
     <h3>언제 발표되나</h3>
     <ul>
-      <li>관리자 인증현황의 <b>챌린지 결과</b> 값이 정해지면 바로 발표 (진행기간 뒤 횟수 부족 일괄 탈락 · 검수 후 최종완료)</li>
+      <li><b>검수기간이 끝난 다음 날 모든 회원에게 한 번에</b> 발표 (검수 종료일이 없으면 진행 종료일 다음 날). 결과는 관리자 인증현황의 <b>챌린지 결과</b> 값 (진행기간 뒤 횟수 부족 일괄 탈락 · 검수기간 최종완료) — 10/19 저녁 변경, 전에는 정해지면 바로 발표</li>
       <li>마이페이지 <span class="pill b-res">결과발표</span> 카드 → 성공 또는 실패 화면 (발표 전에는 인증하기 화면)</li>
     </ul>
     <div class="tbl"><table>
       <tr><th>화면</th><th>지금 서버</th></tr>
       <tr><td class="k">성공</td><td><q>챌린지 성공했어요! / 이번 챌린지로 한 걸음 더 나아갔어요.</q> + 선물 그림 + <q>킨스 챌린지 성공 혜택을 알림톡으로 발송드려요</q> + <q>알림톡을 못 받았어요</q>(링크 비어 있음) + <q>새 챌린지가 시작되면 카카오 알림톡을 보내드려요.</q> · 버튼 <q>내 기록 보기</q> / <q>챌린지 홈으로 가기</q></td></tr>
       <tr><td class="k">실패</td><td><q>완주하지 못했어요 / 다음 챌린지 성공을 응원해요!</q> + <q>대신 관련 루틴을 추천드려요 :-)</q> 루틴 1개(챌린지 일정에서 고른 루틴, 없으면 최신) · 같은 버튼 2개</td></tr>
-      <tr><td class="k">내 기록 보기</td><td><q>기록을 확인해보세요 / 도장을 눌러 나의 챌린지 기록을 돌아보세요.</q> · 도장 누르면 그날 사진 · 날짜 · 안 올린 날 <q>업로드하지 않았어요</q> · 반려된 날 올렸던 사진 + 실패 도장(글자 없음) · <q>갤러리에 저장</q></td></tr>
-      <tr><td class="k">홈 · 상세</td><td>검수 종료일까지는 계속 <q>참여 완료한 챌린지 · 인증 확인중이에요.</q></td></tr>
+      <tr><td class="k">내 기록 보기</td><td><q>기록을 확인해보세요 / 도장을 눌러 나의 챌린지 기록을 돌아보세요.</q> · 도장 누르면 그날 사진 · 날짜 · 안 올린 날 <q>업로드하지 않았어요</q> · 사진 왼쪽 위 작은 도장으로 승인(웃는 얼굴) · 반려(우는 얼굴, 올렸던 사진 표시, 글자 없음) · <q>갤러리에 저장</q></td></tr>
+      <tr><td class="k">홈 · 상세</td><td>발표는 검수기간이 끝난 뒤라 검수기간에는 모두 <q>참여 완료한 챌린지 · 인증 확인중이에요.</q>, 끝나면 <q>종료된 챌린지</q></td></tr>
     </table></div>
     <div class="diff"><b>피그마와 다른 점</b><ul>
       <li>결과 발표 · 종료 알림톡, 성공 시 적립금 코드 발송 없음</li>
-      <li>결과가 나왔는데도 홈 · 상세가 <q>인증 확인중이에요</q> (피그마는 홈이 미참여 상태로)</li>
       <li>결과를 봐도 <span class="pill b-res">결과발표</span>가 <span class="pill b-end">종료</span>로 바뀌지 않음</li>
       <li>성공 문구 <q>완주 리워드</q> ↔ <q>성공 혜택</q> · 버튼 <q>홈으로 돌아가기</q> ↔ <q>챌린지 홈으로 가기</q></li>
     </ul></div>
@@ -273,8 +273,8 @@
       <tr><td class="k">신청 기간</td><td>신청 완료한 챌린지 · D-n</td><td>신청 진행중인 챌린지 · 신청하기</td><td><span class="pill b-soon">진행예정</span></td></tr>
       <tr><td class="k">신청 마감 ~ 시작 전</td><td>신청 완료한 챌린지 · D-n</td><td>진행중인 챌린지 · 신청 기간이 종료됐어요</td><td><span class="pill b-soon">진행예정</span></td></tr>
       <tr><td class="k">진행 기간</td><td>참여중인 챌린지 · n/총</td><td>진행중인 챌린지(회색 진행바) · 신청 기간이 종료됐어요</td><td><span class="pill b-ing">진행중</span></td></tr>
-      <tr><td class="k">검수 기간</td><td>참여 완료한 챌린지 · 인증 확인중</td><td>종료된 챌린지</td><td>결과 전 <span class="pill b-wait">결과대기중</span> / 후 <span class="pill b-res">결과발표</span></td></tr>
-      <tr><td class="k">검수 종료 후</td><td colspan="2">종료된 챌린지 · 다음에 다시 돌아올게요 :-)</td><td><span class="pill b-end">종료</span></td></tr>
+      <tr><td class="k">검수 기간</td><td>참여 완료한 챌린지 · 인증 확인중</td><td>종료된 챌린지</td><td><span class="pill b-wait">결과대기중</span> (결과가 정해져도)</td></tr>
+      <tr><td class="k">검수 종료 후</td><td colspan="2">종료된 챌린지 · 다음에 다시 돌아올게요 :-)</td><td>결과 있음 <span class="pill b-res">결과발표</span> / 없음 <span class="pill b-end">종료</span></td></tr>
     </table></div>
   </div>
 

diff --git a/publ-audit.html b/publ-audit.html
@@ -58,7 +58,7 @@
   <h2 style="border-color:#f59e0b">먼저 봐 주셨으면 하는 것</h2>
   <div class="box"><ol class="top">
     <li><b>체크리스트 결과 상단 두 줄</b>(한 줄 설명 · 상세 내용) — 퍼블에 없는 요소 추가 <span class="pill own">임의</span> · 확인 대기</li>
-    <li><b>인증 화면</b> — 오늘 올린 뒤 사진 칸 "지금은 인증할 수 없어요" (퍼블 마크업은 "확인중"용, 엑셀은 "오늘 인증 불가 · 확인중 → off") <span class="pill xl">엑셀 기준</span> · 확인 대기</li>
+    <li><b>인증 화면</b> — 오늘 올린 뒤 사진 칸 "지금은 인증할 수 없어요" (퍼블 마크업은 "확인중"용, 엑셀은 "오늘 인증 불가 · 확인중 → off") <span class="pill xl">엑셀 기준</span> · 10/19 저녁 요청으로 변경 — 오늘 사진을 보여 주고 그날에만 바꿀 수 있음</li>
     <li><b>마이페이지 체크리스트 히스토리 빈 상자</b> — 퍼블 마이페이지엔 없음, 엑셀 "히스토리 기록 없음 → my-empty" <span class="pill xl">엑셀 기준</span> · 확인 대기</li>
     <li><b>알림창 문구 전반</b> — 진입 제한 · 입력 검사 안내문은 거의 다 내가 지음 (아래 화면별)</li>
     <li><b>출처 확인 필요</b> — 신청 화면 "코드 전송 · 인증코드" 칸 숨김(일지에 없음), 회원가입 "알림톡 발송 동의"(퍼블 새 버전인지 불명), 오늘 오전 바뀐 문구들(시그널 · 성공 혜택 · 푸터 회사정보 · 게시판 상세 등)</li>
@@ -115,11 +115,11 @@
   <h2 id="c">인증</h2>
   <div class="tbl"><table>
     <tr><th>항목</th><th>퍼블</th><th>지금 서버</th><th>분류</th></tr>
-    <tr><td class="it">오늘 올린 뒤 사진 칸</td><td>"확인중" 상태용 off 마크업</td><td>오늘 이미 올렸을 때도 <q>지금은 인증할 수 없어요</q></td><td><span class="pill xl">엑셀 기준</span> 47번</td></tr>
-    <tr><td class="it">하루 1장 · 다시 보내면</td><td>없음</td><td><q>오늘은 이미 인증했어요.</q></td><td><span class="pill own">임의</span> 47번</td></tr>
+    <tr><td class="it">오늘 올린 뒤 사진 칸</td><td>"확인중" 상태용 off 마크업</td><td>오늘 이미 올렸을 때도 <q>지금은 인증할 수 없어요</q> → 10/19 저녁 변경 : 오늘 사진 + 사진 변경 가능</td><td><span class="pill xl">엑셀 기준</span> 47번</td></tr>
+    <tr><td class="it">하루 1장 · 다시 보내면</td><td>없음</td><td><q>오늘은 이미 인증했어요.</q> → 10/19 저녁 주석 처리 (그날 사진 변경 허용)</td><td><span class="pill own">임의</span> 47번</td></tr>
     <tr><td class="it">진입 · 업로드 알림창</td><td>없음</td><td><q>로그인 후 인증할 수 있어요.</q> · <q>챌린지를 신청한 분만 진행 기간에 인증할 수 있어요.</q> · <q>인증 사진을 선택해 주세요.</q> · <q>사진을 올리지 못했어요. jpg, png, gif 사진(10MB 이하)만…</q> · 사진 500px 축소</td><td><span class="pill own">임의</span> 37 · 47번</td></tr>
     <tr><td class="it">반려된 날 사진 · 발표 전 보기 전용 · 발표 후 결과로</td><td></td><td></td><td><span class="pill req">요청</span> 53 · 56 · 57번</td></tr>
-    <tr><td class="it">버튼 "오늘의 루틴 완료 :-)"</td><td>없음</td><td>오늘 올린 뒤</td><td><span class="pill req">유지 허용</span></td></tr>
+    <tr><td class="it">버튼 "오늘의 루틴 완료 :-)"</td><td>없음</td><td>오늘 올린 뒤 → 10/19 저녁 주석 처리 (요청)</td><td><span class="pill req">유지 허용</span></td></tr>
   </table></div>
 
   <h2 id="r">인증 완료 · 내 기록</h2>

diff --git a/excel-flow-compare.html b/excel-flow-compare.html
@@ -84,7 +84,7 @@
     <table>
       <tr><th>구분</th><th>항목</th><th>엑셀</th><th>md</th></tr>
       <tr><td class="k"><span class="tag chg">다름</span></td><td class="item">신청 후 시작 전 마이페이지</td><td class="p">'진행예정(노랑)' 배지로 나의 챌린지에 나옴</td><td>"신청 후 마이페이지는 변화 없음"<span class="note">지금 : 엑셀대로 진행예정</span></td></tr>
-      <tr><td class="k"><span class="tag chg">다름</span></td><td class="item">결과발표 → 종료 시점</td><td class="p">배지 '결과발표' · '종료'만 있고 바뀌는 시점은 없음</td><td>사용자가 결과를 확인하면 종료, 홈은 '챌린지 미참여'<span class="note">지금 : 날짜 기준 (검수기간이 끝나면 종료)</span></td></tr>
+      <tr><td class="k"><span class="tag chg">다름</span></td><td class="item">결과발표 → 종료 시점</td><td class="p">배지 '결과발표' · '종료'만 있고 바뀌는 시점은 없음</td><td>사용자가 결과를 확인하면 종료, 홈은 '챌린지 미참여'<span class="note">지금 : 결과는 검수기간이 끝난 뒤 한 번에 발표, 그때부터 결과 있으면 결과발표 · 없으면 종료 (10/19 저녁)</span></td></tr>
       <tr><td class="k"><span class="tag chg">다름</span></td><td class="item">챌린지 목록 기간 표시</td><td class="p">탭은 on 이동만, 분류는 개발</td><td>상태별 — 신청 기간 / 진행 기간 / 종료는 진행했던 기간<span class="note">지금 : 신청 기간 기준 분류 (9/28 결정), 종료 카드만 진행 기간</span></td></tr>
     </table>
   </section>
@@ -108,7 +108,7 @@
       <tr><td class="k"><span class="tag same">같음</span></td><td class="item">상세 버튼 · 비로그인</td><td class="p">기간 구분 없이 "로그인 후 신청하기"</td><td>같음</td></tr>
       <tr><td class="k"><span class="tag same">같음</span></td><td class="item">카드 상태</td><td class="p">upcoming / missed / review / ended / none-challenge, 진행바 인증한 날 수만큼 on</td><td>같음 (진행중 + 신청함은 마크업대로 클래스 없음 — 엑셀 오기)</td></tr>
       <tr><td class="k"><span class="tag same">같음</span></td><td class="item">상세 버튼 (로그인)</td><td class="p">신청하기 / done 신청 완료 / verify 인증하기 / verify review 인증 확인중 / off</td><td>같음, .apply-tip 은 인증할 수 있을 때만</td></tr>
-      <tr><td class="k"><span class="tag same">같음</span></td><td class="item">사진 인증</td><td class="p">.verify-upload 기본 / off + disabled, 도장 on · fail · today, 사진 골라야 인증 버튼</td><td>같음 + 오늘 올렸으면 "오늘의 루틴 완료 :-)"</td></tr>
+      <tr><td class="k"><span class="tag same">같음</span></td><td class="item">사진 인증</td><td class="p">.verify-upload 기본 / off + disabled, 도장 on · fail · today, 사진 골라야 인증 버튼</td><td>같음 + 오늘 올렸으면 그 사진을 보여 주고 그날에만 변경 가능 (버튼은 "인증하기", 10/19 저녁)</td></tr>
       <tr><td class="k"><span class="tag same">같음</span></td><td class="item">마이페이지</td><td class="p">프로필 로그인 / 비로그인, 챌린지 0개 my-empty, 배지 5종 하나만, 히스토리 비로그인은 제목만</td><td>같음</td></tr>
       <tr><td class="k"><span class="tag same">같음</span></td><td class="item">챌린지 신청</td><td class="p">동의 3개 체크 시 신청 버튼 활성</td><td>같음</td></tr>
     </table>

diff --git a/figma-server-compare.html b/figma-server-compare.html
@@ -87,7 +87,7 @@
       <td>나의 챌린지에 <b>진행예정</b> 배지 카드가 보임 (퍼블 정리 엑셀 기준)</td><td class="who"><span class="pill p-publ">퍼블과 같음</span></td></tr>
     <tr><td class="no">2</td><td class="where">결과 발표 후<br>홈 카드</td>
       <td>"챌린지 참여하기"(미참여 상태)로 돌아감<br><a class="shot" href="img/flow/s6_home.png" target="_blank">피그마 화면 ↗</a></td>
-      <td>검수 종료일까지 <q>참여 완료한 챌린지 · 인증 확인중이에요.</q> 카드가 그대로. 결과가 이미 발표됐는데도 "인증 확인중" 문구가 나옴 (상세 화면 버튼도 <q>인증 확인중이에요</q>)</td><td class="who"><span class="pill p-srv">서버만 다름</span></td></tr>
+      <td>검수 종료일까지 <q>참여 완료한 챌린지 · 인증 확인중이에요.</q> 카드가 그대로 (상세 화면 버튼도 <q>인증 확인중이에요</q>). 결과는 검수기간이 끝난 뒤 발표 (10/19 저녁 변경)</td><td class="who"><span class="pill p-srv">서버만 다름</span></td></tr>
     <tr><td class="no">3</td><td class="where">종료 후<br>마이페이지</td>
       <td>"참여중인 챌린지가 없어요" (참여 전과 같음), 히스토리 목록에서만 [종료]<br><a class="shot" href="img/flow/s7_my.png" target="_blank">피그마 화면 ↗</a></td>
       <td>마지막에 참여한 챌린지가 <b>종료</b> 배지 카드로 계속 보임</td><td class="who"><span class="pill p-srv">서버만 다름</span></td></tr>
@@ -116,7 +116,7 @@
       <td>기간과 상관없이 버튼 <q>로그인 후 신청하기</q> → 로그인 뒤 그 상세로 돌아옴<br><a class="shot" href="img/v_apply_out.jpg" target="_blank">서버 화면 ↗</a></td>
       <td class="who"><span class="pill p-publ">퍼블에 있음</span></td></tr>
     <tr><td class="no">4</td><td class="where">오늘 인증을 이미 함<br>인증하기 다시 열기</td>
-      <td>업로드 칸 <q>지금은 인증할 수 없어요</q> + 버튼 <q>오늘의 루틴 완료 :-)</q>(회색) · 도장 눌러 사진 보기<br><span class="tip">피그마는 인증 직후 완료 화면만 있고, 같은 날 다시 들어온 화면은 없음</span><br><a class="shot" href="img/srv/u_verify_2.jpg" target="_blank">서버 화면 ↗</a></td>
+      <td>업로드 칸에 오늘 사진 + <q>클릭해서 사진 변경하기</q> · 버튼 <q>인증하기</q> (그날에만 변경, 10/19 저녁) · 도장 눌러 사진 보기<br><span class="tip">피그마는 인증 직후 완료 화면만 있고, 같은 날 다시 들어온 화면은 없음</span><br><a class="shot" href="img/srv/u_verify_2.jpg" target="_blank">서버 화면 ↗</a></td>
       <td class="who"><span class="pill p-publ">칸은 퍼블 · 엑셀</span> <span class="pill p-srv">버튼 문구는 서버</span></td></tr>
     <tr><td class="no">5</td><td class="where">관리자가 인증을 반려</td>
       <td>도장 누르면 올렸던 사진 + 날짜 · 그날은 다시 올릴 수 있음 · 내 기록 보기에서는 실패 도장으로 표시</td>
